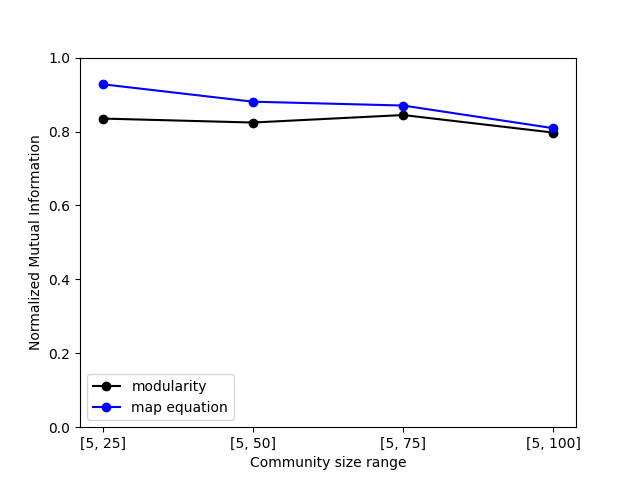
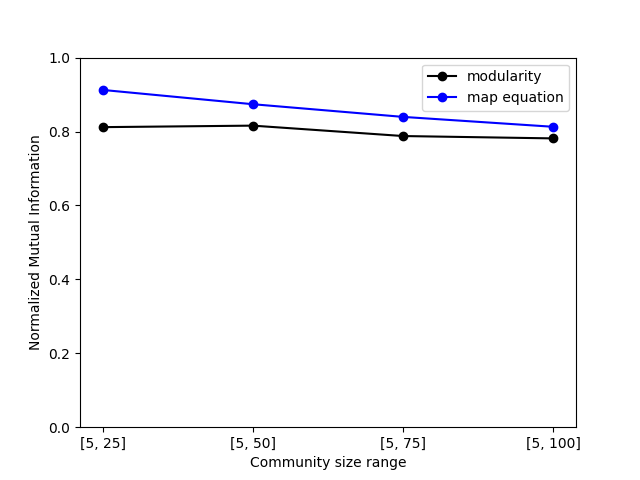
nieuwe plots maken

Changed region(s): [[0.1562, 0.125, 0.9062, 0.3125], [0.125, 0.8125, 0.375, 0.875], [0.125, 0.7812, 0.3125, 0.8125]]

diff --git a/experiment/results/mu_results.tex b/experiment/results/mu_results.tex
@@ -1,14 +1,33 @@
-0.2,
-5,25,10,30,15,35,20,40,
+0.25,
+5,25,10,50,15,75,20,100,5,50,5,75,5,100,10,30,15,35,20,40,
 10
-0.2,0,map:0.9326636228002231,0.9362785374409338,0.9193780973871525,0.9079203739537036,0.9122557552884537,0.937545332811021,0.9325807598417957,0.9408361127750517,0.9244270605030587,0.9351819999012411,
-0.2,0,mod:0.8089288043751323,0.8363075688355388,0.8354588108281078,0.7931172600492458,0.8542408856815938,0.843719038244754,0.8474795207477378,0.8463149874904518,0.8547268346299897,0.8302337041569253,
-0.2,1,map:0.8604589389118265,0.8763395203306379,0.925001313646053,0.9128492721183987,0.9007253515698083,0.9001173032344308,0.8721271039793741,0.847055387206512,0.9023064054277724,0.8915886530471077,
-0.2,1,mod:0.8041417166078121,0.8339060036159849,0.8633150874029933,0.8646849374806872,0.8426027880819813,0.8580134360816827,0.8674045953300127,0.8082358107246823,0.8717087220124806,0.8883652308171069,
-0.2,1,gen:17.24137931034483,16.666666666666668,15.151515151515152,15.151515151515152,15.151515151515152,17.857142857142858,17.24137931034483,17.857142857142858,17.857142857142858,17.857142857142858,
-0.2,2,map:0.8904992727719402,0.8397150610800819,0.8878766785448502,0.8803636130355176,0.884381520009979,0.8702632693634442,0.8495048618268118,0.8389194944459192,0.878383055859128,0.8493060956182324,
-0.2,2,mod:0.8545847474445804,0.8355819453588603,0.850429814151296,0.8604842724873514,0.8546492662864653,0.8477733042570129,0.8002305286545247,0.83026038698145,0.8908681630502702,0.8402923824183595,
-0.2,2,gen:22.727272727272727,22.727272727272727,20.833333333333332,22.727272727272727,21.73913043478261,20.833333333333332,20.0,21.73913043478261,23.80952380952381,21.73913043478261,
-0.2,3,map:0.8298470011216944,0.7851520231022834,0.8518435157488125,0.8201912340215769,0.8571763893925436,0.834855571570546,0.8624419200652387,0.7980943586910921,0.8339940221303869,0.8557049703190649,
-0.2,3,mod:0.8791565464455486,0.8272180460966689,0.8717600583542051,0.8183263957447922,0.8359502788672497,0.842621588833165,0.8169556076534839,0.8485979441060754,0.8642562827988343,0.8291115873729777,
-0.2,3,gen:25.0,29.41176470588235,29.41176470588235,27.77777777777778,27.77777777777778,27.77777777777778,25.0,27.77777777777778,27.77777777777778,26.31578947368421,
+0.25,0,map:0.8999903187529281,0.8989041522834681,0.9194801985370629,0.916023021692714,0.8900701831105376,0.9037377392756832,0.9329184408973222,0.9135878421669458,0.9403434270430415,0.9104779083210118,
+0.25,0,mod:0.7821359474666744,0.8192680324114382,0.8319613965205699,0.8290604623215216,0.7901599325968418,0.7895631238197466,0.8301917333691696,0.8049511506010308,0.8369723473181436,0.8041003059542267,
+0.25,0,gen:10.869565217391305,9.803921568627452,9.803921568627452,10.204081632653061,11.11111111111111,10.869565217391305,9.25925925925926,9.615384615384615,10.638297872340425,10.0,
+0.25,1,map:0.8708085093389321,0.8750576331474103,0.7982044119748326,0.7980521882463024,0.8107175021934742,0.9114462604040118,0.8037324089479355,0.768367170955015,0.845726277051774,0.8643532823508768,
+0.25,1,mod:0.8367720502027881,0.7757471882206918,0.7600981339218486,0.7680019236998716,0.8091425175872665,0.8696455151265264,0.7965404959844682,0.7119531863921607,0.8023552229013793,0.8350299878070667,
+0.25,1,gen:20.0,17.857142857142858,18.51851851851852,19.23076923076923,21.73913043478261,20.0,20.833333333333332,22.727272727272727,17.857142857142858,20.0,
+0.25,2,map:0.7592783395775103,0.6712986854242974,0.7719036084034063,0.7807806362255107,0.638658958239077,0.8090555448453185,0.7869092052374099,0.6955729113170709,0.6221382943876965,0.753185741351526,
+0.25,2,mod:0.8183286948994225,0.6889929708700026,0.8333063737475206,0.7726030876321419,0.7207499863313994,0.8202259886275294,0.8367967274700606,0.6850116436491837,0.6192657581080726,0.7938596381505252,
+0.25,2,gen:29.41176470588235,33.333333333333336,29.41176470588235,29.41176470588235,38.46153846153846,27.77777777777778,29.41176470588235,29.41176470588235,41.666666666666664,27.77777777777778,
+0.25,3,map:0.6218295789709101,0.6440035181398728,0.694948219453749,0.6073809984634202,0.7392883500281625,0.6163076827527721,0.6405513817559465,0.5872878704847585,0.6499308969632804,0.6196593539401976,
+0.25,3,mod:0.6974267292514453,0.7566544734171002,0.8027027610084368,0.7274964715269711,0.7713951693019003,0.615960484763128,0.6717359736903559,0.5846478296497216,0.6479869834873333,0.6384201939689842,
+0.25,3,gen:45.45454545454545,41.666666666666664,38.46153846153846,50.0,33.333333333333336,41.666666666666664,45.45454545454545,45.45454545454545,45.45454545454545,38.46153846153846,
+0.25,4,map:0.8705186221880529,0.8120286566563175,0.8858129027219099,0.8610757015148766,0.9146012820369832,0.9096728058770965,0.8242204444765416,0.8412628985925105,0.896361156379981,0.9231812643283037,
+0.25,4,mod:0.8164564604297093,0.7958836877624769,0.8360473411410172,0.7908936271053535,0.8331160377542355,0.844848201181056,0.7610492200990203,0.8038004165181095,0.8332804100439449,0.8438916481637978,
+0.25,4,gen:13.157894736842104,15.625,13.513513513513514,11.904761904761905,11.363636363636363,11.363636363636363,15.151515151515152,19.23076923076923,11.627906976744185,12.5,
+0.25,5,map:0.8221186812344363,0.8619661056347915,0.9004902369285407,0.7961845206778898,0.820280987083597,0.7499352949499097,0.8458374547929501,0.8885608523646591,0.8395239122965139,0.8707426187065493,
+0.25,5,mod:0.8189791842873414,0.7830120733457044,0.8053579367380294,0.7085753322028288,0.7600169005992777,0.7892491519846695,0.7963402862397527,0.813384562379339,0.8294644327130528,0.7733402104929098,
+0.25,5,gen:17.857142857142858,12.820512820512821,11.904761904761905,16.129032258064516,15.151515151515152,22.727272727272727,15.625,13.513513513513514,15.151515151515152,13.513513513513514,
+0.25,6,map:0.7903327963047041,0.7850183791184873,0.8214739117554357,0.8936777011270902,0.8821792126369529,0.8112505599231201,0.8149147764422612,0.715847784729168,0.8687912880256485,0.7442536824874226,
+0.25,6,mod:0.7242967203851844,0.8026860514239875,0.7929662771313105,0.8160879721153514,0.8192425476288269,0.7764435392245528,0.746205271379759,0.7750383197853741,0.7918209349910051,0.7690723965694571,
+0.25,6,gen:13.88888888888889,17.24137931034483,15.151515151515152,14.285714285714286,14.285714285714286,15.151515151515152,15.625,25.0,15.625,17.857142857142858,
+0.25,7,map:0.8870311568098558,0.8892362843168122,0.8920777880045551,0.9255606961277786,0.8287051566261748,0.8806669863998904,0.8674149714323216,0.9001419960779297,0.8693139885227441,0.915589306686294,
+0.25,7,mod:0.8356977672558827,0.821761752612438,0.8770224614914347,0.8511473072068781,0.7959225133367462,0.7653105127906963,0.8281445377543964,0.8238020907118034,0.7912210542334931,0.836052892206301,
+0.25,7,gen:16.129032258064516,15.151515151515152,18.51851851851852,16.129032258064516,17.857142857142858,16.129032258064516,16.666666666666668,15.151515151515152,16.129032258064516,15.625,
+0.25,8,map:0.7975752134256605,0.7846175268720065,0.8807353251933633,0.8022783962681789,0.7958424984941588,0.8355463285052077,0.8454978992365036,0.8339086402213135,0.8083413976695967,0.8164369666617243,
+0.25,8,mod:0.8082076570521132,0.7970156130809178,0.861756136024551,0.7849113438589614,0.7718227142309095,0.8318736161788755,0.8114661392515802,0.7978246541871371,0.8073571108919174,0.7837960621120879,
+0.25,8,gen:22.727272727272727,23.80952380952381,21.73913043478261,22.727272727272727,22.727272727272727,23.80952380952381,22.727272727272727,20.833333333333332,23.80952380952381,25.0,
+0.25,9,map:0.7938841217588495,0.7552882298603527,0.8496647990573811,0.7983894225378195,0.8208467273043017,0.7667697974293741,0.8768847427241712,0.7285148719511618,0.778410732512418,0.7898445647583756,
+0.25,9,mod:0.7891559993380892,0.787807894729726,0.8642219715720963,0.8104147400158478,0.8227058950738696,0.7750726647548088,0.8814403990956509,0.7986928738545459,0.8056455364819335,0.830282755202216,
+0.25,9,gen:29.41176470588235,27.77777777777778,26.31578947368421,27.77777777777778,27.77777777777778,27.77777777777778,26.31578947368421,31.25,27.77777777777778,27.77777777777778,

diff --git a/experiment/plotscatter.py b/experiment/plotscatter.py
@@ -1,0 +1,65 @@
+import matplotlib.pyplot as plt
+import math
+import json
+
+
+def read_results2():
+    f = open(r"c:\Users\veerl\OneDrive\Documenten\Mathematical Sciences\Network Science\git\NetworkScienceProject\experiment\results\mu_results.tex", 'r')
+    #f = open('results\mu_results.tex', 'r')
+    lines = f.readlines()
+
+    #find mus
+    mus1 = list(lines[0].split(','))
+    mus1.pop()
+    print(mus1)
+    mus= [float(mu) for mu in mus1]
+    
+    #find com sizes
+    comrangelist = lines[1].split(',')
+    comrangelist.pop()
+    comrange = [[int(comrangelist[i]), int(comrangelist[i+1])] for i in range(0,len(comrangelist), 2)]
+    
+    #find num_runs
+    num_runs = int(lines[2])
+
+    #find results
+    results ={}
+    for line in lines[3:]:
+        linessplit = line.split(":")
+        input_string = linessplit[0].split(",")
+
+        output_string = linessplit[1].split(",")
+        output_string.pop()
+        
+        input = (float(input_string[0]), float(input_string[1]), input_string[2])
+        output = [float(x) for x in output_string]
+        
+        results[input] = output
+    
+    f.close()
+        
+    return mus, comrange,num_runs, results
+    
+
+def plot_results_2(mus, comrange,num_runs, results, eigenschap):
+    # eigenschap in ['num_small', 'frac_small', 'av_size', 'range', 'num_coms']
+    x = []
+    y = []
+    for com in comrange:
+        verschil = results[(mu,com,'mod')]-results[(mu,com,'map')] #doet hij nu getallen van elkaar afhalen of lijsten?
+        y.append(verschil)
+        x.append(results[(mu, com, eigenschap)])
+    plt.scatter(x, y)
+    plt.xlabel(eigenschap) #verander dit naar een heel woord
+    plt.ylabel('NMI(mod)-NMI(map)')
+    #plt.title('Objective function: modularity')   
+    plt.ylim(-1,1)
+    plt.savefig('plot'+eigenschap+'.png') 
+    plt.show() 
+     
+    
+
+mus, comrange,num_runs, results = read_results2()
+eigenschappen = ['num_small', 'frac_small', 'av_size', 'range', 'num_coms']
+for i in eigenschappen:
+    plot_results_2(mus, comrange,num_runs, results, i)

diff --git a/experiment/main.py b/experiment/main.py
@@ -24,7 +24,7 @@ def init():
     # return G, communities, p
 
 def main():
-    mus = [0.2]
+    mus = [0.25]
     # mus=[0.1]
     # (3*mult,5*mult),(mult, 5*mult), (mult, 6*mult),
     a= 5
@@ -91,7 +91,7 @@ def main():
 
 def save_results(params,results):
     mus, comsizes,num_runs = params
-    f = open("results\mu_results.tex", 'w')
+    f = open(r"c:\Users\veerl\OneDrive\Documenten\Mathematical Sciences\Network Science\git\NetworkScienceProject\experiment\results\mu_results.tex", 'w')
     #f = open("results\mu_results.tex", 'w')
     
     

diff --git a/experiment/plotsresults.py b/experiment/plotsresults.py
@@ -78,6 +78,6 @@ def plot_results_1(mus, comrange,num_runs, results, coms):
     
 
 mus, comrange,num_runs, results = read_results1()
-#plot_results_1(mus, comrange,num_runs, results, 1)
-#plot_results_1(mus, comrange,num_runs, results, 2)
+plot_results_1(mus, comrange,num_runs, results, 1)
+plot_results_1(mus, comrange,num_runs, results, 2)
 plot_results_1(mus, comrange,num_runs, results, 3)
